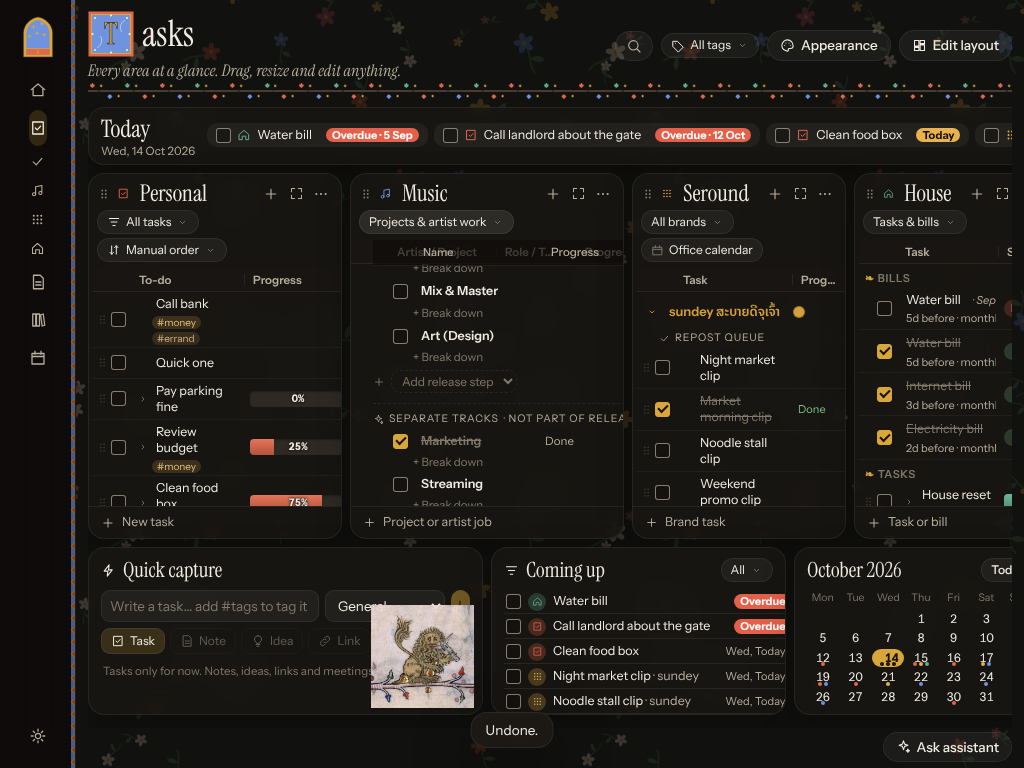
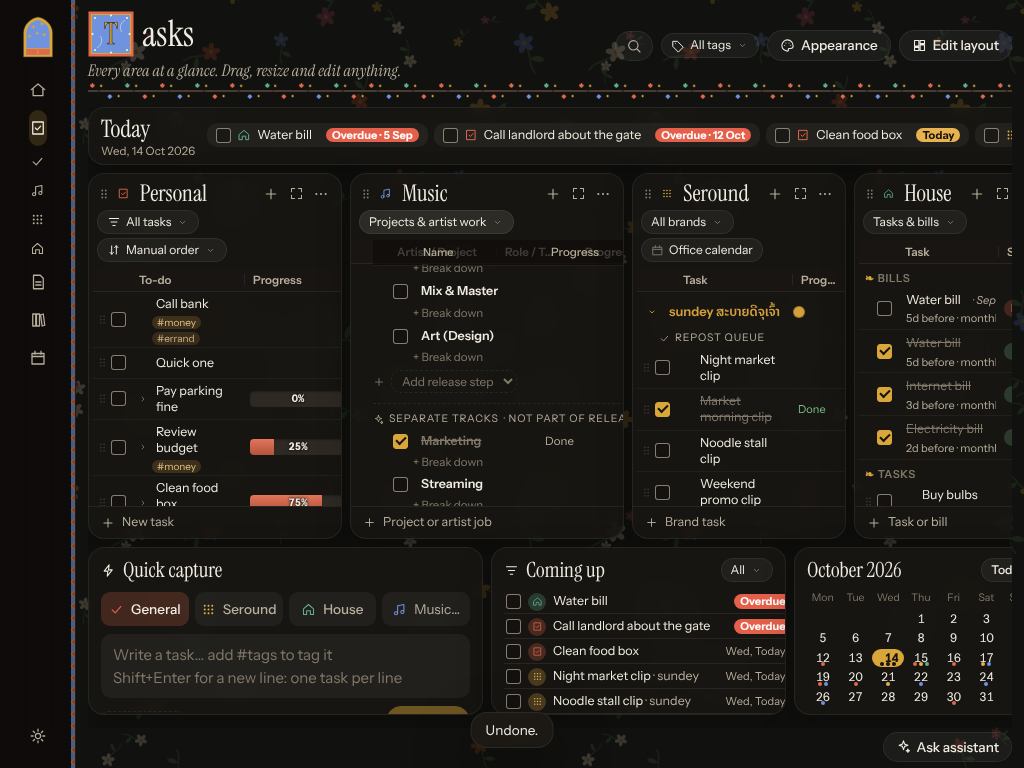
Quick capture uses its whole box
- Big multi-line writing area that fills the widget; one task per line, Shift+Enter for a new line, live #tag preview.
- Large colour-coded category buttons (General, Seround, House, Music opens New project), brand picker for Seround.
- Due date and simple/checklist choice right in the box; the description paragraph is gone and planned types shrink to faint icons.

Claude-Session: https://claude.ai/code/session_016WKLQPuGqaCrfQHNoqNZZi

Changed region(s): [[0.0938, 0.75, 0.4688, 0.9375], [0.9062, 0.625, 1.0, 0.6562]]

diff --git a/frankk-app/src/components/QuickCapture.tsx b/frankk-app/src/components/QuickCapture.tsx
@@ -2,55 +2,96 @@ import { useRef, useState } from 'react';
 import { Icon, type IconName } from './Icons';
 import { useStore } from '../data/store';
 import { Drollery } from './Ornaments';
+import { DateCell } from './DateCell';
+import { TagChips } from './Tags';
 import { useUi } from '../ui';
+import type { TaskArea } from '../data/types';
+
+const AREAS: { id: TaskArea; label: string; icon: IconName }[] = [
+  { id: 'general', label: 'General', icon: 'check' },
+  { id: 'seround', label: 'Seround', icon: 'seround' },
+  { id: 'house', label: 'House', icon: 'house' },
+];
 
 const LATER: { id: string; label: string; icon: IconName }[] = [
   { id: 'note', label: 'Note', icon: 'note' }, { id: 'idea', label: 'Idea', icon: 'idea' },
   { id: 'link', label: 'Link', icon: 'link' }, { id: 'meeting', label: 'Meeting', icon: 'calendar' },
 ];
 
+const TAG_RE = /#[\p{L}\p{N}_-]+/gu;
+
 export function QuickCapture({ bare }: { bare?: boolean }) {
   const { dispatch, data } = useStore();
-  const [area, setArea] = useState<'general' | 'seround' | 'house'>('general');
-  const { say } = useUi();
+  const { say, setProjectDialog } = useUi();
+  const [area, setArea] = useState<TaskArea>('general');
+  const [brand, setBrand] = useState(data.brands[0] ?? '');
+  const [due, setDue] = useState<string | undefined>();
+  const [checklist, setChecklist] = useState(false);
   const [text, setText] = useState('');
   const last = useRef({ text: '', at: 0 });
+
+  // One task per line, so a pasted list becomes a list of tasks.
+  const lines = text.split('\n').map((l) => l.trim()).filter(Boolean);
+  const tagsIn = [...new Set((text.match(TAG_RE) ?? []).map((x) => x.slice(1)))];
 
   const save = () => {
     const t = text.trim();
     if (!t) return;
     const now = Date.now();
-    // A rapid double-click / double-Enter must not create the same task twice.
+    // A rapid double-click / double-Enter must not create the same tasks twice.
     if (last.current.text === t && now - last.current.at < 800) return;
     last.current = { text: t, at: now };
-    // "#tag" words become tags: "Call bank #money" -> task "Call bank" tagged money.
-    const tags = (t.match(/#[\p{L}\p{N}_-]+/gu) ?? []).map((x) => x.slice(1));
-    const title = t.replace(/#[\p{L}\p{N}_-]+/gu, '').replace(/\s+/g, ' ').trim() || t;
-    dispatch({ type: 'task/add', title, area, extra: { tags, mode: 'simple', ...(area === 'seround' ? { brand: data.brands[0] } : {}) } });
+    for (const line of lines) {
+      // "#tag" words become tags: "Call bank #money" -> task "Call bank" tagged money.
+      const tags = (line.match(TAG_RE) ?? []).map((x) => x.slice(1));
+      const title = line.replace(TAG_RE, '').replace(/\s+/g, ' ').trim() || line;
+      dispatch({ type: 'task/add', title, area, extra: { tags, mode: checklist ? 'progress' : 'simple', due, ...(area === 'seround' ? { brand } : {}) } });
+    }
     setText('');
-    say(`Added to ${area === 'general' ? 'General' : area === 'house' ? 'House' : `Seround · ${data.brands[0]}`}.`, true);
+    const where = area === 'general' ? 'General' : area === 'house' ? 'House' : `Seround · ${brand}`;
+    say(`${lines.length > 1 ? `${lines.length} tasks` : 'Task'} added to ${where}.`, true);
   };
 
   return (
     <section className={`capture${bare ? ' bare' : ''}`} aria-label="Quick capture">
       {!bare && <h3><Icon name="bolt" size={15} /> Quick capture</h3>}
-      <div className="capture-row">
-        <input value={text} placeholder="Write a task… add #tags to tag it" aria-label="Quick capture text" onChange={(e) => setText(e.target.value)} onKeyDown={(e) => { if (e.key === 'Enter') save(); }} />
-        <select aria-label="Category" value={area} onChange={(e) => setArea(e.target.value as typeof area)}>
-          <option value="general">General</option>
-          <option value="seround">Seround</option>
-          <option value="house">House</option>
-          <option disabled>Music — use + in Music</option>
-        </select>
-        <button className="btn primary square" aria-label="Save capture" onClick={save} disabled={!text.trim()}><Icon name="plus" /></button>
-      </div>
-      <div className="capture-types">
-        <button className="type on" aria-pressed="true"><Icon name="tasks" size={14} /> Task</button>
-        {LATER.map((t) => (
-          <button key={t.id} className="type" disabled title="Not available yet — planned for a later milestone"><Icon name={t.icon} size={14} /> {t.label}</button>
+
+      <div className="qc-areas" role="radiogroup" aria-label="Category">
+        {AREAS.map((a) => (
+          <button key={a.id} type="button" role="radio" aria-checked={area === a.id} className={`qc-area area-${a.id}`} onClick={() => setArea(a.id)}>
+            <Icon name={a.icon} size={15} /> {a.label}
+          </button>
         ))}
+        <button type="button" className="qc-area area-music" title="Music work is a project with stages: opens New project" onClick={() => setProjectDialog(true)}>
+          <Icon name="music" size={15} /> Music…
+        </button>
       </div>
-      <p className="hint">Tasks only for now. Notes, ideas, links and meetings are planned.</p>
+
+      <div className="qc-write">
+        <textarea value={text} aria-label="Quick capture text" spellCheck
+          placeholder={'Write a task… add #tags to tag it\nShift+Enter for a new line: one task per line'}
+          onChange={(e) => setText(e.target.value)}
+          onKeyDown={(e) => { if (e.key === 'Enter' && !e.shiftKey) { e.preventDefault(); save(); } }} />
+        {tagsIn.length > 0 && <div className="qc-tags"><TagChips names={tagsIn} small /></div>}
+      </div>
+
+      <div className="qc-bar">
+        {area === 'seround' && (
+          <select className="qc-brand" aria-label="Brand" value={brand} onChange={(e) => setBrand(e.target.value)}>
+            {data.brands.map((b) => <option key={b}>{b}</option>)}
+          </select>
+        )}
+        <DateCell kind="due" label="Due date for captured task" placeholder="Due date" value={due} onChange={setDue} />
+        <label className="qc-toggle" title="Off: a simple to-do. On: a checklist with a progress bar.">
+          <input type="checkbox" checked={checklist} onChange={(e) => setChecklist(e.target.checked)} /> Checklist
+        </label>
+        <span className="qc-later" title="Notes, ideas, links and meetings are planned for a later milestone">
+          {LATER.map((t) => <Icon key={t.id} name={t.icon} size={13} aria-label={`${t.label} (planned)`} />)}
+        </span>
+        <button className="btn primary qc-save" aria-label="Save capture" onClick={save} disabled={!lines.length}>
+          <Icon name="plus" size={14} /> {lines.length > 1 ? `Add ${lines.length}` : 'Add'}
+        </button>
+      </div>
       {!bare && <Drollery className="capture-drollery" />}
     </section>
   );

diff --git a/frankk-app/src/styles.css b/frankk-app/src/styles.css
@@ -1151,3 +1151,26 @@ fieldset { border: 1px solid var(--line); border-radius: var(--radius); padding:
 .context-menu .cm-sep { border: 0; border-top: 1px solid var(--edge, var(--line)); margin: 4px 2px; }
 .stage .st-grid.step { margin-left: 0; }
 .st-head { font-size: 11px; font-weight: 500; letter-spacing: .02em; color: var(--muted); }
+
+/* ── Iteration 10: Quick capture uses its whole box ── */
+.capture { gap: 8px; min-height: 0; }
+.qc-areas { display: grid; grid-template-columns: repeat(4, minmax(0, 1fr)); gap: 6px; }
+.qc-area { display: flex; align-items: center; justify-content: center; gap: 7px; min-height: 34px; padding: 6px 8px; border-radius: 9px; font-size: 13.5px; font-weight: 500; color: var(--muted);
+  background: color-mix(in srgb, var(--text) 5%, transparent); white-space: nowrap; overflow: hidden; text-overflow: ellipsis; }
+.qc-area:hover { background: color-mix(in srgb, var(--text) 9%, transparent); color: var(--text); }
+.qc-area svg { flex: none; color: var(--c, var(--accent)); }
+.qc-area.area-general { --c: var(--general); } .qc-area.area-seround { --c: var(--seround); } .qc-area.area-house { --c: var(--house); } .qc-area.area-music { --c: var(--music); }
+.qc-area[aria-checked='true'] { color: var(--text); background: color-mix(in srgb, var(--c) 22%, transparent); }
+.qc-area.area-music { font-weight: 400; }
+.qc-write { position: relative; flex: 1; min-height: 64px; display: flex; flex-direction: column; border-radius: 10px; background: color-mix(in srgb, var(--text) 5%, transparent); }
+.qc-write:focus-within { background: color-mix(in srgb, var(--text) 8%, transparent); }
+.qc-write textarea { flex: 1; min-height: 0; width: 100%; resize: none; border: 0 !important; background: transparent !important; box-shadow: none !important; outline: none; padding: 10px 12px; font: 400 15px/1.5 var(--font-body); color: var(--text); }
+.qc-write textarea::placeholder { color: var(--faint); }
+.qc-tags { padding: 0 10px 8px; }
+.qc-bar { display: flex; align-items: center; gap: 8px; flex-wrap: wrap; }
+.qc-brand { max-width: 170px; }
+.qc-toggle { display: inline-flex; align-items: center; gap: 6px; font-size: 12.5px; color: var(--muted); cursor: pointer; }
+.qc-later { display: inline-flex; gap: 8px; color: var(--faint); opacity: .6; margin-left: auto; cursor: help; }
+.qc-save { min-width: 84px; justify-content: center; }
+:is([data-style='gilded'], [data-style='modern']) .capture-drollery { display: none; }
+[data-style='medieval'] .qc-area { border-radius: 0; }
